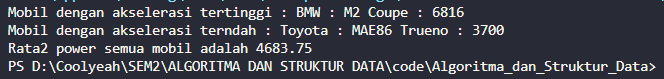
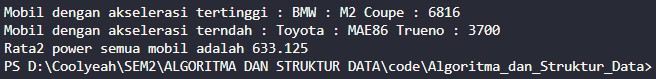
update: typo Avg

diff --git a/Pertemuan5/Showroom.java b/Pertemuan5/Showroom.java
@@ -19,6 +19,10 @@ public class Showroom {
         return top_acc;
     }
 
+    public int TopPow() {
+        return top_pow;
+    }
+
     public static int HighestAcc(Showroom[] showrooms, int l, int r) {
         if (l == r) {
             return l;
@@ -66,7 +70,7 @@ public class Showroom {
         double totPow = 0;
         int totMobil = 0;
         for (Showroom showroom : showrooms) {
-            totPow += showroom.TopAcc();
+            totPow += showroom.TopPow();
             totMobil++;
         }
         return totPow / totMobil;
